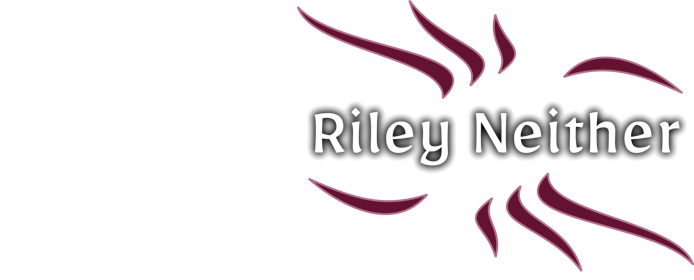
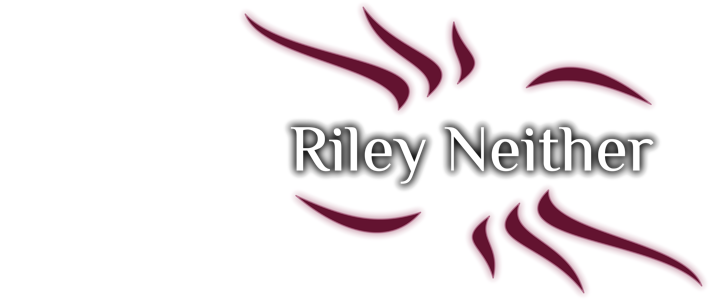
new title images

Changed region(s): [[0.3329, 0.0, 0.9986, 0.6286], [0.6354, 0.6286, 1.0, 0.9714], [0.3934, 0.6286, 0.6354, 0.8]]

diff --git a/art.html b/art.html
@@ -4,7 +4,7 @@
     <title>Art | Riley Neither</title>
     <meta name="keywords" content="Riley Neither, queer SFF, trans SFF, queer fantasy art, SFF artwork">
     <meta name="description" content="Character art by Riley Neither, an emerging nonbinary writer of queer speculative fiction.">
-    <meta property="og:image" content="https://www.rileyneither.com/lib/imgs/rn-preview.png">
+    <meta property="og:image" content="https://www.rileyneither.com/lib/imgs/rn-site-preview.png">
     <link rel="shortcut icon" type="image/png" href="lib/imgs/rn-favicon-bird.png">
 
     <link href="https://fonts.googleapis.com/css2?family=El+Messiri:wght@400;500;600;700&display=swap" rel="stylesheet">
@@ -107,12 +107,6 @@
             <img class="thumbnail charart" src="lib/art/demon-catcher-small.jpg" alt="stylized digital drawing of an old Black woman in a neon green dress; at left, a full-body image where she stands smirking with shadowy animals, a monkey, a large cat, and several butterflies; at right, her head and shoulders, with the shadowy monkey perched on her shoulder and fingering her beaded earring; she looks at the monkey and says 'How many times I tell you don't play with my earrings!'">
           </div>
           <div class="artdesc">This is the Demon Catcher!  She only makes a brief appearance in one of my short stories, but she's such a good character, I ought to write more with her.</div>
-        </div>
-        <div class="artworkdiv">
-          <div class="thumbnaildiv">
-            <img class="thumbnail otherart" src="lib/art/eye-wings-small.jpg" alt="digital drawing of a gold-skinned woman whose arms become wings, widespread, with blue and green feathers; she wears red, and blue and green tail feathers can be seen beneath her skirt; her eyes are covered by disembodied red hands, and large red-rimmed blue-green eyes stare out from the joints of her wings">
-          </div>
-          <div class="artdesc">...Don't ask me what was going through my head when I drew this, because I truly don't know.  It's not connected to a story or anything.  Looks cool though, right?</div>
         </div>
       </div>
       

diff --git a/index.html b/index.html
@@ -4,7 +4,7 @@
     <title>Riley Neither | Queer SFF Author</title>
     <meta name="keywords" content="Riley Neither, SFF writers, queer SFF writers, queer SFF authors, queer SFF, nonbinary SFF writers, trans fantasy, trans science fiction">
     <meta name="description" content="Riley Neither is an emerging nonbinary author of speculative fiction that's often queer, sometimes political, and always full of wonder.">
-    <meta property="og:image" content="https://www.rileyneither.com/lib/imgs/rn-preview.png">
+    <meta property="og:image" content="https://www.rileyneither.com/lib/imgs/rn-site-preview.png">
     <link rel="shortcut icon" type="image/png" href="lib/imgs/rn-favicon-bird.png">
 
     <link href="https://fonts.googleapis.com/css2?family=El+Messiri:wght@400;500;600;700&display=swap" rel="stylesheet">
@@ -20,8 +20,8 @@
     <div id="bgcolor"></div>
     <div class="maincolumn">
       <div id="namebox">
-        <img id="twobirds" src="lib/imgs/rn-name-twobirds.png" alt="the name Riley Neither with purple rays radiating out and birds on either side">
-        <img id="onebird" src="lib/imgs/rn-name-onebird.png" alt="the name Riley Neither with purple rays radiating out">
+        <img id="twobirds" src="lib/imgs/rn-name-twobirds.png" alt="the name Riley Neither with purple rays radiating out and stylized white birds on either side">
+        <img id="onebird" src="lib/imgs/rn-name-onebird.png" alt="the name Riley Neither with purple rays radiating out and a stylized white bird on the left">
       </div>
       <div class="textbox" id="introbox">
         <p tabindex="0">Writer of speculative fiction that's often queer, sometimes political, and always full of wonder.  Ze/zim/zer or they/them/their, please.  My first short story is forthcoming in Fireside Magazine, and in the meantime, I offer art, conlangs (constructed languages), and book recs with an eye for trans representation in SFF.</p>

diff --git a/bookrecs.html b/bookrecs.html
@@ -4,7 +4,7 @@
     <title>Trans SFF Recommendations | Riley Neither</title>
     <meta name="keywords" content="Riley Neither, queer SFF authors, queer SFF, queer sci-fi, queer fantasy, queer speculative fiction, trans SFF, trans sci-fi, trans fantasy, trans speculative fiction, trans representation, trans SFF representation, queer SFF book recommendations">
     <meta name="description" content="Reading recommendations for trans representation in sci-fi and fantasy, from by Riley Neither, an emerging nonbinary writer of queer speculative fiction.">
-    <meta property="og:image" content="https://www.rileyneither.com/lib/imgs/rn-preview.png">
+    <meta property="og:image" content="https://www.rileyneither.com/lib/imgs/rn-site-preview.png">
     <link rel="shortcut icon" type="image/png" href="lib/imgs/rn-favicon-bird.png">
 
     <link href="https://fonts.googleapis.com/css2?family=El+Messiri:wght@400;500;600;700&display=swap" rel="stylesheet">

diff --git a/fiction.html b/fiction.html
@@ -4,7 +4,7 @@
     <title>Fiction | Riley Neither</title>
     <meta name="keywords" content="Riley Neither, queer SFF authors, queer SFF, queer sci-fi, queer fantasy, queer speculative fiction, trans SFF, trans sci-fi, trans fantasy, trans speculative fiction">
     <meta name="description" content="Short stories and works-in-progress by Riley Neither, an emerging nonbinary writer of queer speculative fiction.">
-    <meta property="og:image" content="https://www.rileyneither.com/lib/imgs/rn-preview.png">
+    <meta property="og:image" content="https://www.rileyneither.com/lib/imgs/rn-site-preview.png">
     <link rel="shortcut icon" type="image/png" href="lib/imgs/rn-favicon-bird.png">
 
     <link href="https://fonts.googleapis.com/css2?family=El+Messiri:wght@400;500;600;700&display=swap" rel="stylesheet">

diff --git a/conlangs.html b/conlangs.html
@@ -4,7 +4,7 @@
     <title>Conlangs | Riley Neither</title>
     <meta name="keywords" content="Riley Neither, queer SFF authors, queer SFF, trans SFF, conlangs, SFF conlangs">
     <meta name="description" content="Constructed languages by Riley Neither, an emerging nonbinary writer of queer speculative fiction.">
-    <meta property="og:image" content="https://www.rileyneither.com/lib/imgs/rn-preview.png">
+    <meta property="og:image" content="https://www.rileyneither.com/lib/imgs/rn-site-preview.png">
     <link rel="shortcut icon" type="image/png" href="lib/imgs/rn-favicon-bird.png">
 
     <link href="https://fonts.googleapis.com/css2?family=El+Messiri:wght@400;500;600;700&display=swap" rel="stylesheet">

diff --git a/lib/stylesheets/main.css b/lib/stylesheets/main.css
@@ -162,7 +162,7 @@ body {
   color: white;
   font-family: var(--headfam,'Noto Sans');
   font-size: 1.05rem;
-  font-weight: 600;
+  font-weight: 700;
   transition: .1s;
 }
 .jsbtn span {
@@ -274,7 +274,7 @@ th, td {
   padding-bottom: 13px;
 }
 .gen button {
-  width: 110px;
+  width: 100px;
 }
 .genp {
   display: grid;
@@ -321,7 +321,7 @@ h1 {
   padding-bottom: 10px;
   font-family: var(--headfam,'Noto Sans');
   font-size: 1.7rem;
-  font-weight: 600;
+  font-weight: 700;
   /*letter-spacing: -.01em;*/
   color: var(--purple4,black);
 }
